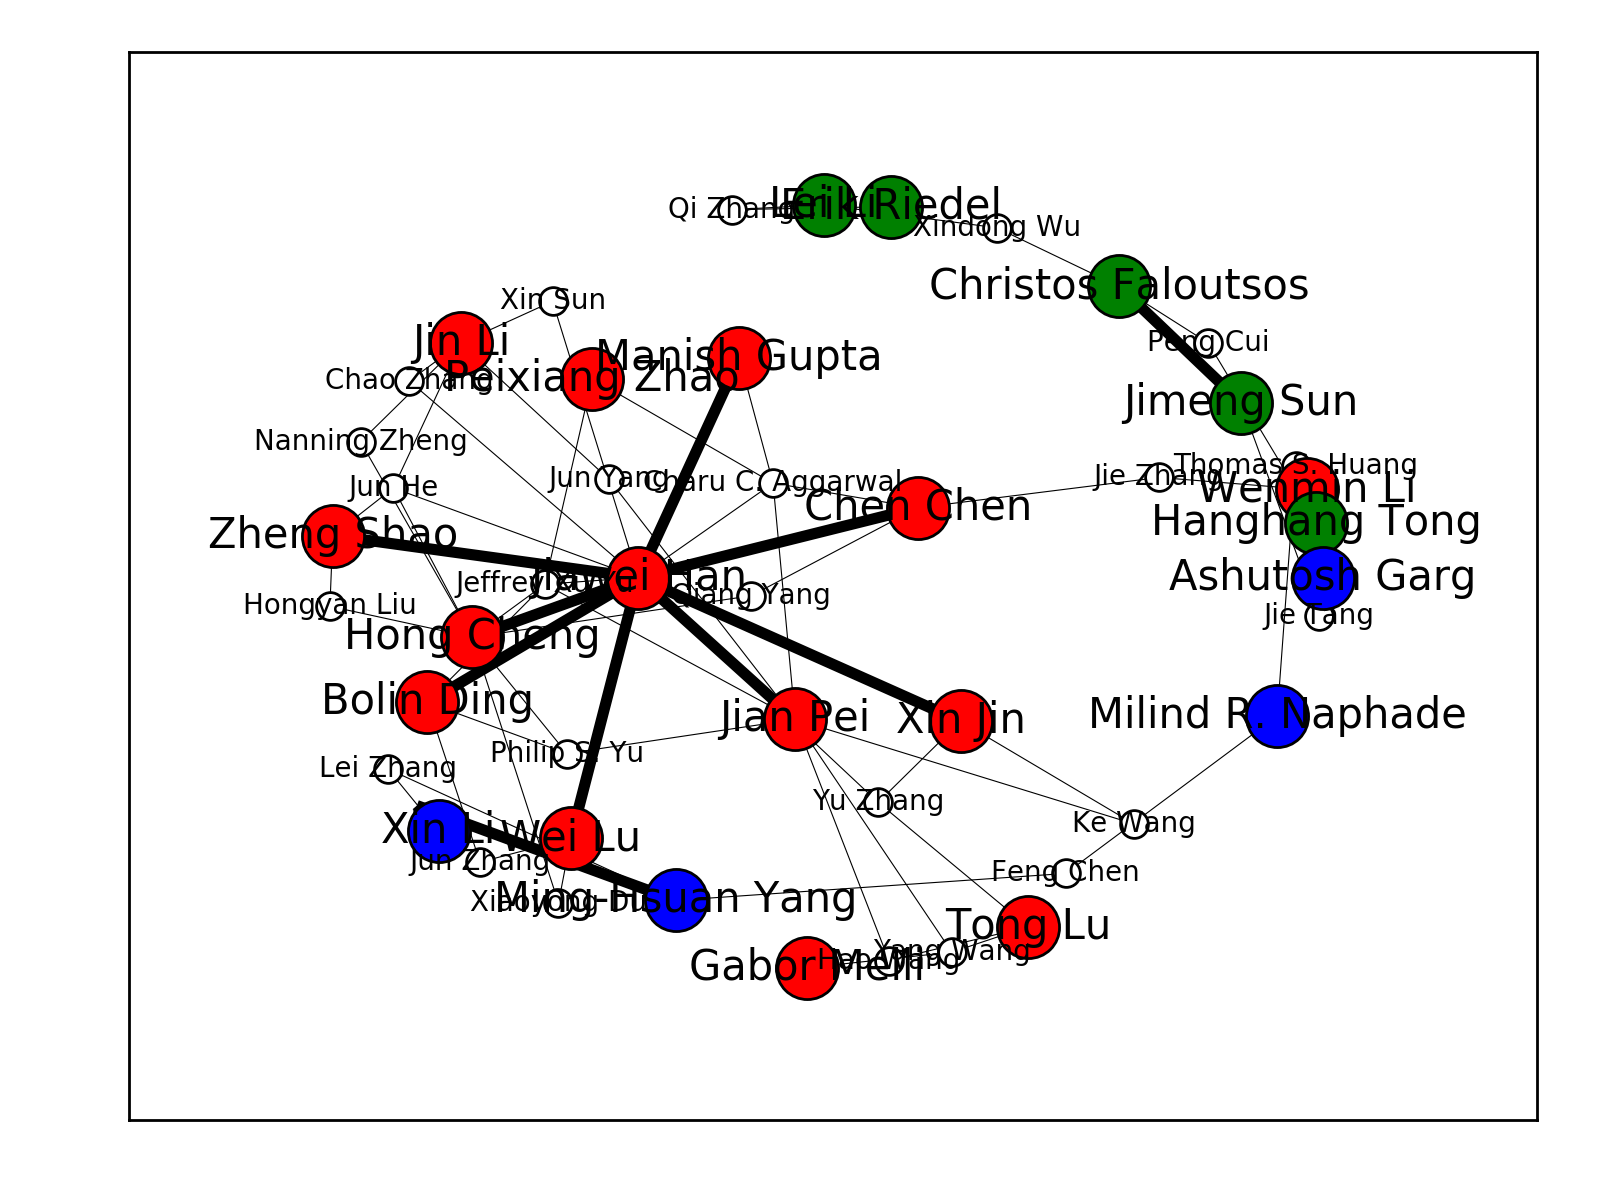
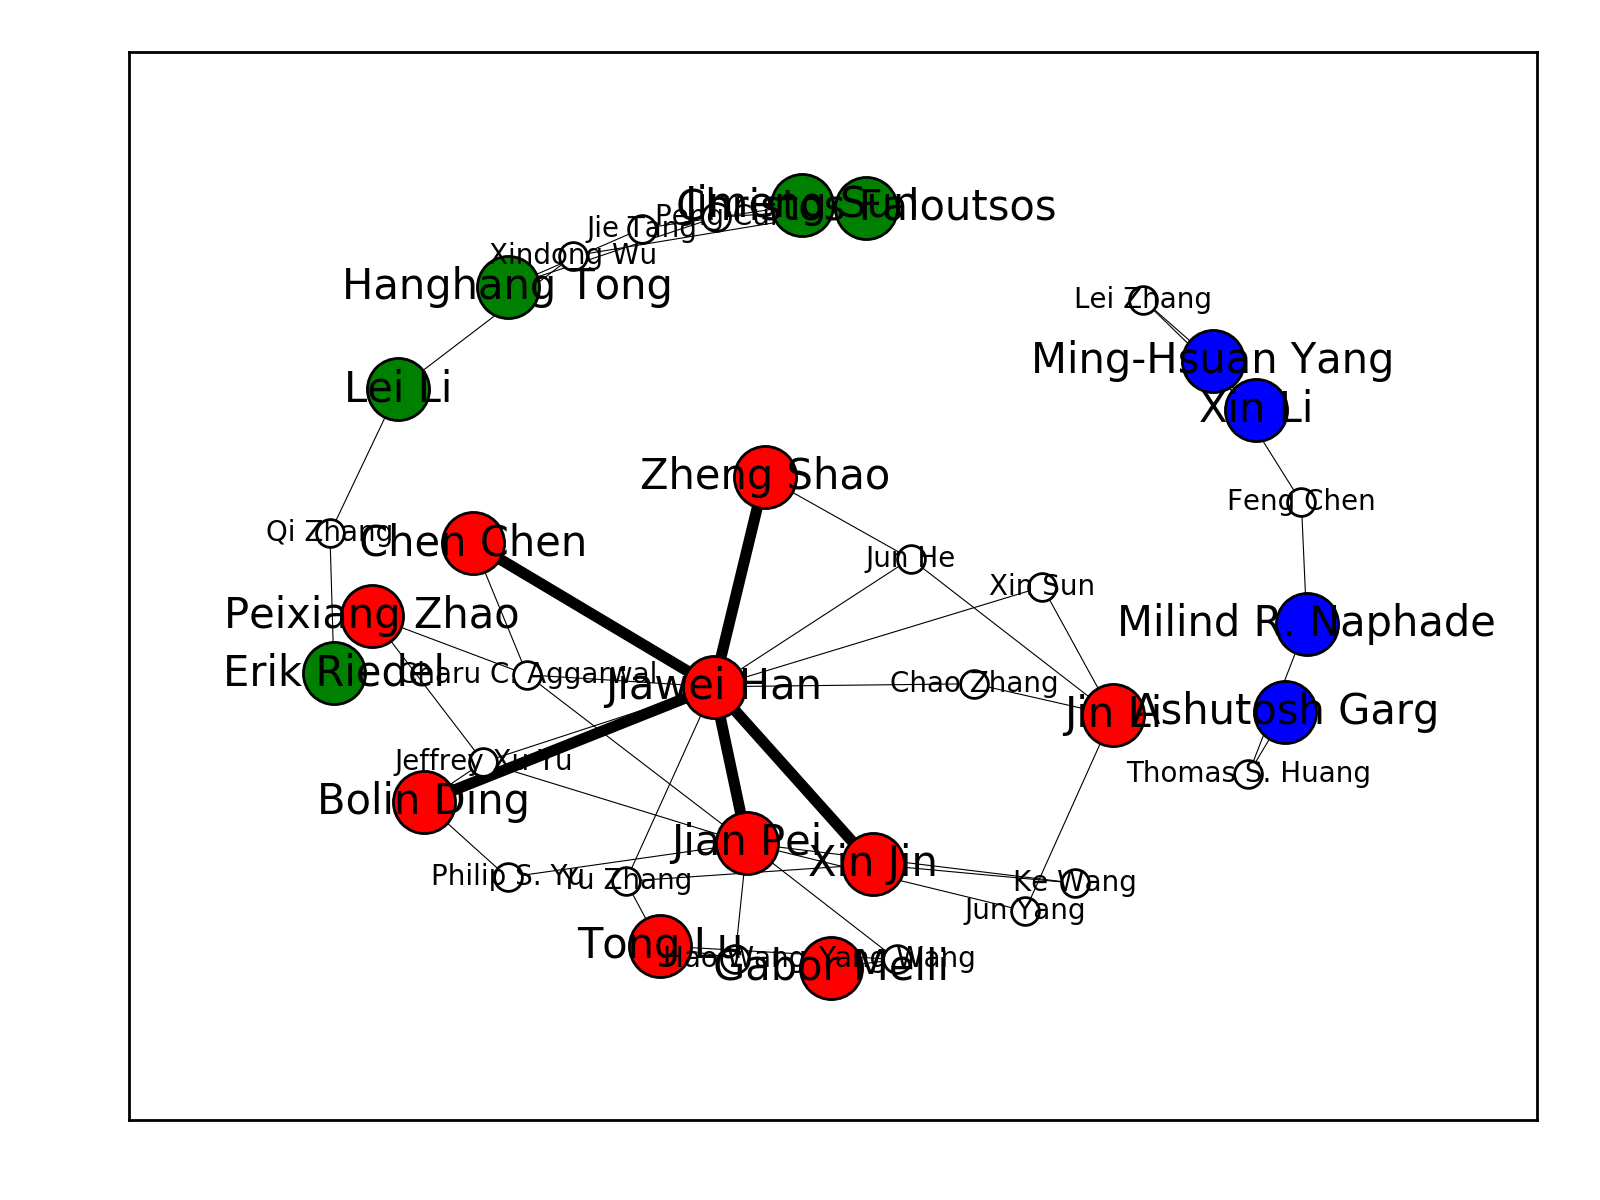
plot4

Changed region(s): [[0.125, 0.1233, 0.9375, 0.8325], [0.5938, 0.4625, 0.6875, 0.5242]]

diff --git a/plot4.py b/plot4.py
@@ -94,7 +94,8 @@ class Network(object):
 		return reduce(lambda x, y: x or y, [self.is_connected(n, n2, order - 1) for n in self.neighbors_baseline[n1]])
 
 	def baseline(self):
-		black_list = set(['Yizhou Sun', 'Jing Gao', 'Dong Xin', 'Wei Wang'])
+		# black_list = set()
+		black_list = set(['Yizhou Sun', 'Jing Gao', 'Dong Xin', 'Wei Wang', 'Wei Lu', 'Manish Gupta', 'Hong Cheng', 'Wenmin Li'])
 		nodes = set()
 		colored = self.colored()
 		for node, nbs in self.neighbors_rl.items():
@@ -155,13 +156,13 @@ class Network(object):
 				nbs1 = self.neighbors_rl[edge[0]] - colored
 				nbs2 = self.neighbors_rl[edge[1]] - colored
 				for nb1 in nbs1:
-					ratio = 0.8 if len(nbs1) > len(nbs2) else 0.6
-					if random.uniform(0, 1) > ratio:
+					ratio = 4.0 / len(nbs1)
+					if random.uniform(0, 1) < ratio:
 						nodes.add(nb1)
 						self.add_edge(edges, edge[0], nb1)
 				for nb2 in nbs2:
-					ratio = 0.8 if len(nbs1) < len(nbs2) else 0.6
-					if random.uniform(0, 1) > ratio:
+					ratio = 4.0 / len(nbs2)
+					if random.uniform(0, 1) < ratio:
 						nodes.add(nb2)
 						self.add_edge(edges, edge[1], nb2)
 		return list(nodes), list(edges)
